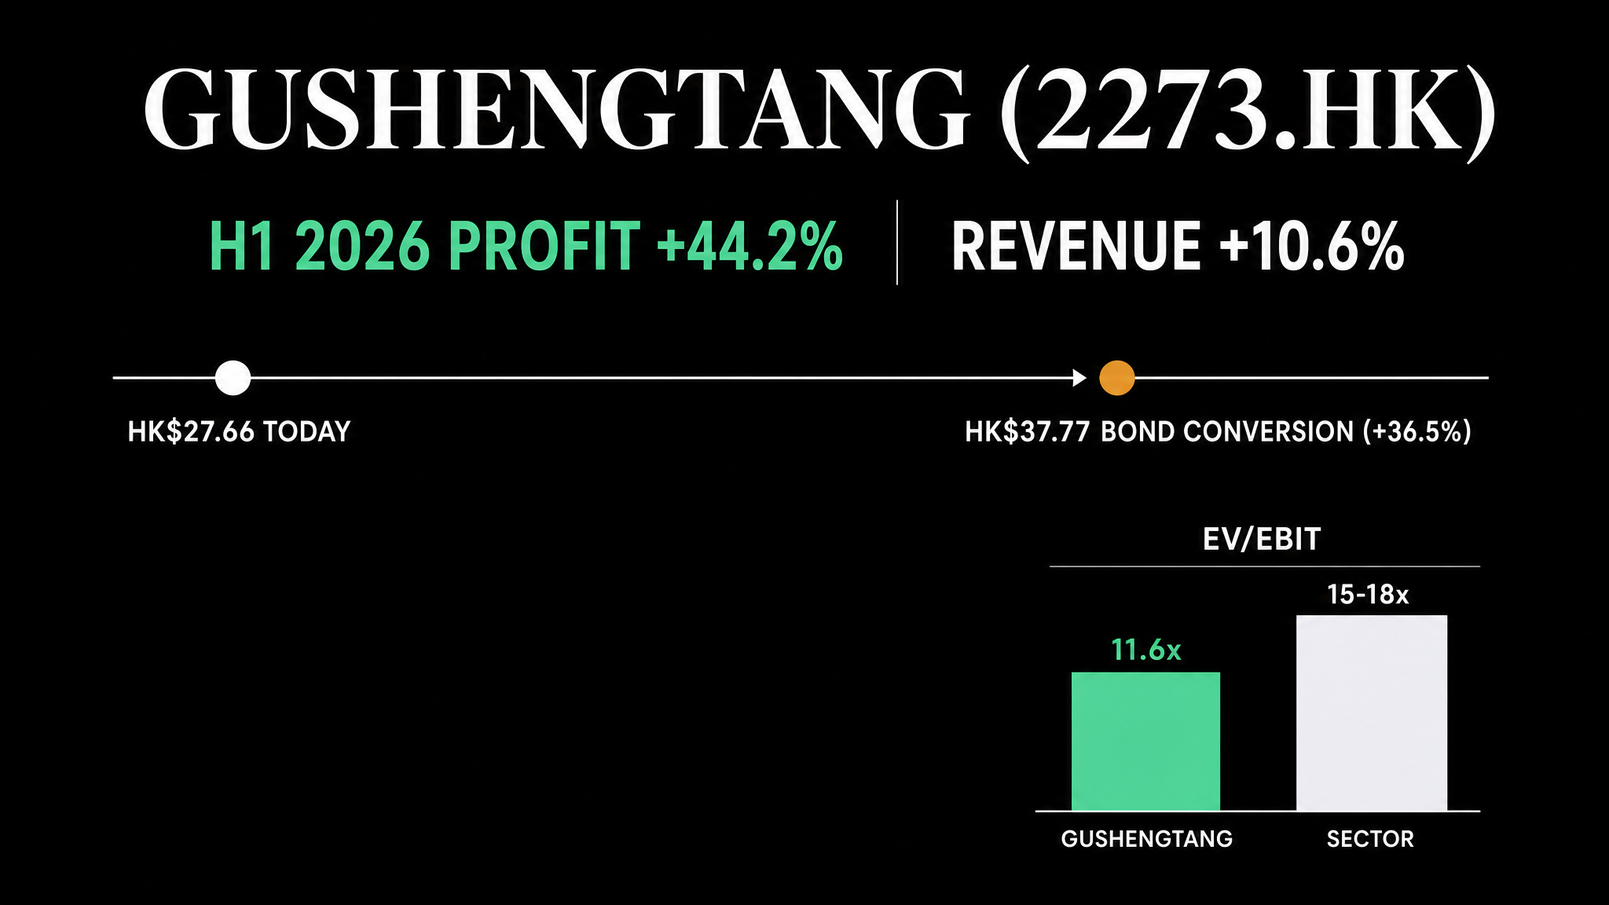
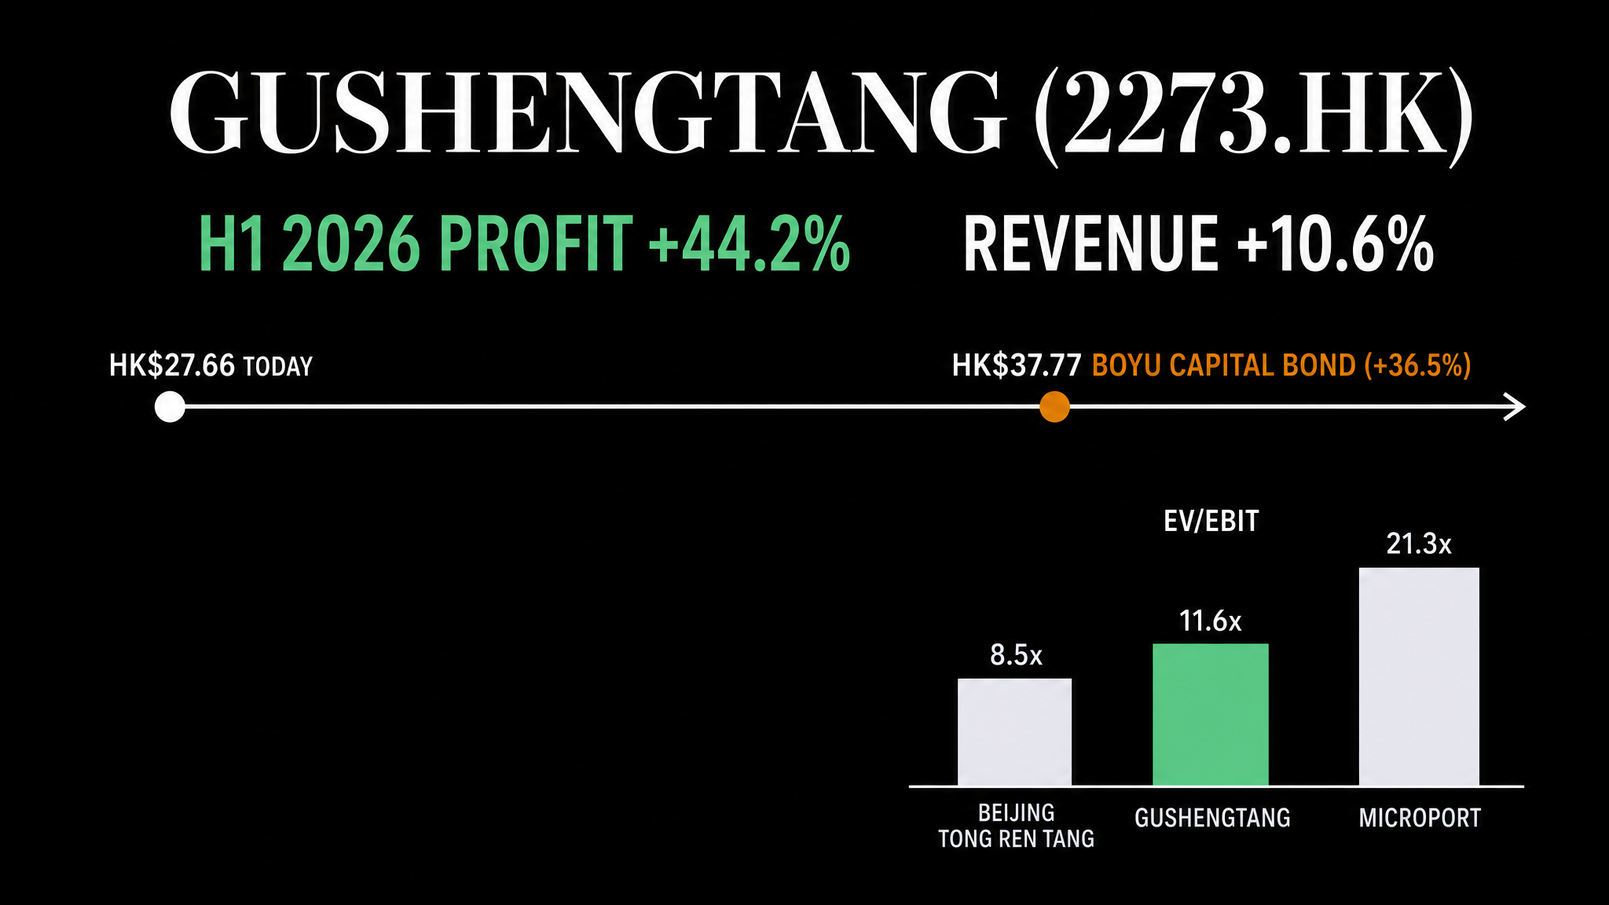
Fix sourcing gaps and unbacked chart claims on GUSHENGTANG article
- Named + linked the Boyu Capital convertible bond announcement
  (direct HKEXnews PDF, not just a name-drop)
- Fixed Sources section: stockId=2273 was wrong (HKEXnews stockId is
  a separate ID space, resolved stockId is 1000127399), added direct
  links to the AR, interim results, and CB filings
- Removed all "broke above the trend line" / breakout / support-level
  narrative — the article shows no chart, so those technical claims
  were unverifiable to the reader
- Replaced the unsourced "15-18x healthcare band" claim (flagged by
  the expert review as doing unearned work) with the three actually-
  named peer multiples already in the data table
- Regenerated the infographic to match: real peer bars (Beijing Tong
  Ren Tang 8.5x, MicroPort 21.3x) instead of a vague sector band
- Rebuilt the Decision section and scenario table around sourced
  price anchors (Boyu's HK$37.77, analyst consensus HK$39.87)
  instead of unshown chart support/resistance levels

diff --git a/publish/analyses/2273-gushengtang.html b/publish/analyses/2273-gushengtang.html
@@ -1,24 +1,24 @@
 <!-- CONFIG
 {
   "layout": "article",
-  "title": "GUSHENGTANG (2273.HK): Profit Rose 44%, Stock Lags",
-  "ogTitle": "GUSHENGTANG (2273.HK): Profit Rose 44%. A Bond Deal Already Prices the Stock 37% Higher.",
-  "description": "Gushengtang (2273.HK) profit grew 44% in H1 2026, but a convertible bond prices the stock 37% higher. Full analysis, price levels, and risks.",
+  "title": "GUSHENGTANG (2273.HK) · Boyu Capital's HK$37.77 Bet",
+  "ogTitle": "GUSHENGTANG (2273.HK): Boyu Capital Priced This Stock at HK$37.77. It Trades for Less.",
+  "description": "China's largest TCM clinic network. Boyu Capital priced its bond at HK$37.77 a share, above today's price. Analysis, price levels, risks.",
   "canonical": "https://trading852.com/analyses/2273-gushengtang",
   "ogType": "article",
   "ogImage": "https://trading852.com/assets/og-image.png",
   "pubDate": "2026-09-24",
   "modDate": "2026-09-24",
   "articleSection": "Healthcare",
-  "contextLine": "A bond prices it 36.5% above today's close"
+  "contextLine": "Boyu Capital priced a bond at HK$37.77"
 }
 -->
 <!-- JSONLD
   {
     "@context": "https://schema.org",
     "@type": "Article",
-    "headline": "GUSHENGTANG (2273.HK): Profit Rose 44%. A Bond Deal Already Prices the Stock 37% Higher.",
-    "description": "Gushengtang (2273.HK) profit grew 44% in H1 2026, but a convertible bond prices the stock 37% higher. Full analysis, price levels, and risks.",
+    "headline": "GUSHENGTANG (2273.HK): Boyu Capital Priced This Stock at HK$37.77. It Trades for Less.",
+    "description": "China's largest TCM clinic network. Boyu Capital priced its bond at HK$37.77 a share, above today's price. Analysis, price levels, risks.",
     "datePublished": "2026-09-24T00:00:00Z",
     "dateModified": "2026-09-24T00:00:00Z",
     "image": "https://trading852.com/assets/og-image.png",
@@ -57,10 +57,10 @@
         <span class="meta-text">8 min read</span>
       </div>
 
-      <h1>GUSHENGTANG (2273.HK) &middot; Profit Rose 44%. A Bond Deal Already Prices the Stock 37% Higher.</h1>
+      <h1>GUSHENGTANG (2273.HK) &middot; Boyu Capital Priced This Stock at HK$37.77. It Trades for Less.</h1>
 
       <p class="article-subtitle">
-        China's largest private network of traditional Chinese medicine clinics just posted its strongest profit growth in two years. The stock has spent ten weeks failing to hold a breakout it made in July.
+        China's largest private network of traditional Chinese medicine clinics just posted its strongest profit growth in two years. A private equity investor already paid more for exposure to the stock than today's price says it is worth.
       </p>
 
       <div class="article-tags">
@@ -79,18 +79,18 @@
 
       <div class="key-takeaway">
         <div class="key-takeaway__label">Key Takeaway</div>
-        <p>Gushengtang's first-half 2026 net profit grew 44.2% year on year to RMB&nbsp;219.2&nbsp;million. Revenue rose 10.6% to RMB&nbsp;1,652.9&nbsp;million, a sharp reacceleration from the 7.5% revenue growth the company posted for all of FY2025. At HK$27.66, the stock trades at 12.8 times earnings and 11.6 times operating profit. In January 2026, private equity firm Boyu Capital priced a US$110&nbsp;million convertible bond in the company at a conversion price of HK$37.77, 36.5% above today's price. The chart has not caught up to either number yet.</p>
+        <p>Gushengtang's first-half 2026 net profit grew 44.2% year on year to RMB&nbsp;219.2&nbsp;million. Revenue rose 10.6% to RMB&nbsp;1,652.9&nbsp;million, a sharp reacceleration from the 7.5% revenue growth the company posted for all of FY2025. At HK$27.66, the stock trades at 12.8 times earnings and 11.6 times operating profit. In January 2026, private equity firm Boyu Capital priced a US$110&nbsp;million convertible bond in the company at a conversion price of HK$37.77, 36.5% above today's price. The stock has not caught up to either number yet.</p>
       </div>
 
       <figure class="article-chart">
         <a href="images/2273-gushengtang-infographic.png" target="_blank" rel="noopener" title="Open full size">
-          <img src="images/2273-gushengtang-infographic.png" alt="Gushengtang (2273.HK) infographic: H1 2026 profit up 44.2%, revenue up 10.6%. Price levels from HK$27.66 today to the HK$37.77 Boyu Capital bond conversion price, +36.5%. EV/EBIT 11.6x versus a 15-18x healthcare sector band." width="2048" height="1152" loading="lazy" decoding="async" />
+          <img src="images/2273-gushengtang-infographic.png" alt="Gushengtang (2273.HK) infographic: H1 2026 profit up 44.2%, revenue up 10.6%. Price levels from HK$27.66 today to the HK$37.77 Boyu Capital bond conversion price, +36.5%. EV/EBIT 11.6x against named peers Beijing Tong Ren Tang 8.5x and MicroPort NeuroScientific 21.3x." width="2048" height="1152" loading="lazy" decoding="async" />
         </a>
-        <figcaption>H1 2026 growth, the bond's conversion price, and the valuation gap, in one view. Source: company filings, see Sources below.</figcaption>
+        <figcaption>H1 2026 growth, the bond's conversion price, and where it trades against named peers. Source: company filings, see Sources below.</figcaption>
       </figure>
 
-      <p>On July 15, 2026, Gushengtang's stock broke above the trend line it had been fighting for months, near HK$29.52. It has closed back below that same line on 50 of the next 51 trading days. Today it sits at HK$27.66, a few cents above its nearest support.</p>
-      <p>In the same ten weeks, the company reported first-half profit up 44.2% and revenue up 10.6%, both accelerating from the year before. The chart says the market does not believe the growth will last. The accounts, filed August 28, say it already has.</p>
+      <p>Gushengtang trades at HK$27.66 today, more than a fifth below where Boyu Capital priced its convertible bond in January and below where most sell-side analysts expect it to go.</p>
+      <p>The company's first-half profit grew 44.2% and revenue 10.6%, both accelerating from the year before. The stock price says investors do not believe the growth will last. The accounts, filed August 28, say it already has.</p>
 
       <h2>What Gushengtang Does</h2>
       <p>Gushengtang runs 101 traditional Chinese medicine clinics across mainland China plus 15 in Singapore, more than any other private operator in the country. Patients pay out of pocket for consultations and herbal treatment from licensed physicians, a business that carries almost no factory or hospital-grade fixed cost. Physicians make up 61% of the 3,551-person workforce. In 2025 the company launched an AI tool trained to replicate the diagnostic style of its senior doctors. It is a way of scaling a practice that has traditionally depended on one physician's reputation at a time.</p>
@@ -119,30 +119,29 @@
             <tbody>
               <tr><td>Beijing Tong Ren Tang (TCM, manufacturing)</td><td>8.5&times;</td></tr>
               <tr><td>WuXi AppTec (CRO)</td><td>9.4&times;</td></tr>
-              <tr><td>Healthcare general band (undervalued ceiling)</td><td>~15-18&times;</td></tr>
+              <tr class="row--highlight"><td>Gushengtang (2273.HK)</td><td>11.6&times;</td></tr>
               <tr><td>MicroPort NeuroScientific</td><td>21.3&times;</td></tr>
-              <tr class="row--highlight"><td>Gushengtang (2273.HK)</td><td>11.6&times;<span class="snapshot-badge">-30%</span></td></tr>
             </tbody>
           </table>
-          <p class="snapshot-note">Source: company FY2025 annual results and H1 2026 interim &middot; peer multiples Sept 2026. No pure TCM-clinic peer trades on HKEX; nearest comps are a TCM manufacturer and medical-device/CRO names.</p>
+          <p class="snapshot-note">Source: company FY2025 annual results and H1 2026 interim &middot; peer multiples Sept 2026. No pure TCM-clinic peer trades on HKEX; nearest comps are a TCM manufacturer and medical-device/CRO names, not a matched peer group.</p>
         </div>
       </div>
 
-      <h2>Why the Chart Has Not Confirmed the Growth</h2>
-      <p>FY2025 is the reason. Revenue grew 43.0% in 2023 and 30.1% in 2024, then fell to 7.5% in 2025. A clinic operator that had compounded at 30%-plus for two straight years slowed to single digits, and the stock re-rated down well before the July breakout attempt. This market has not handed back a full-size position on one quarter of reacceleration, even a 44% one.</p>
-      <p>What the July breakout failed to do is what an August 28 filing then did: it separated the H1 2026 numbers from the FY2025 slowdown. Offline clinic revenue, the core of the business, grew 12.5% year on year, and same-store sales, existing clinics rather than new ones, accounted for 97.3% of that growth. Existing clinics, not new openings, drove the growth.</p>
+      <h2>Why the Market Hasn't Re-Rated the Stock</h2>
+      <p>FY2025 is the reason. Revenue grew 43.0% in 2023 and 30.1% in 2024, then fell to 7.5% in 2025. A clinic operator that had compounded at 30%-plus for two straight years slowed to single digits, and the stock re-rated down. This market has not handed back a full-size position on one quarter of reacceleration, even a 44% one.</p>
+      <p>An August 28 filing separated the H1 2026 numbers from the FY2025 slowdown. Offline clinic revenue, the core of the business, grew 12.5% year on year, and same-store sales, existing clinics rather than new ones, accounted for 97.3% of that growth. Existing clinics, not new openings, drove the growth.</p>
 
       <h2>What Just Happened: Three Signals</h2>
-      <p>Three things converged between January and August 2026 that the July breakout attempt did not yet have behind it.</p>
+      <p>Three things converged between January and August 2026.</p>
       <ol>
-        <li><span class="num">01</span><span><strong>A private-equity investor priced the stock 36.5% higher, in writing.</strong> On January 26, 2026, Gushengtang signed a US$110&nbsp;million, five-year convertible bond with an investment vehicle of Boyu Capital, a private equity firm. The conversion price is HK$37.77, at a 2% coupon. That price was a 22% premium to the stock when the deal was signed. Against today's HK$27.66 it is a 36.5% premium. Boyu does not profit unless the stock gets there.</span></li>
+        <li><span class="num">01</span><span><strong>A private-equity investor priced the stock 36.5% higher, in writing.</strong> On <a href="https://www1.hkexnews.hk/listedco/listconews/sehk/2026/0126/2026012601612.pdf" target="_blank" rel="noopener noreferrer">January 26, 2026</a>, Gushengtang signed a US$110&nbsp;million, five-year convertible bond with an investment vehicle of Boyu Capital, a private equity firm. The conversion price is HK$37.77, at a 2% coupon. That price was a 22% premium to the stock when the deal was signed. Against today's HK$27.66 it is a 36.5% premium. Boyu does not profit unless the stock gets there.</span></li>
         <li><span class="num">02</span><span><strong>The company is buying back stock faster than it is paying dividends.</strong> In the first half of 2026 alone, Gushengtang ran 51 separate buybacks totaling HK$360&nbsp;million for 13.2&nbsp;million shares. Its board approved a further HK$300&nbsp;million on top of an existing mandate. Combined with the declared interim and final dividends, the payout for the half already totals roughly RMB&nbsp;658&nbsp;million. That is more than the entire RMB&nbsp;494&nbsp;million of free cash flow the company generated in all of 2025. The bond's proceeds are covering the gap, a choice management is making with new capital, not a sign the underlying cash generation has weakened.</span></li>
         <li><span class="num">03</span><span><strong>The company went shopping, four times, including its first deal outside China and Singapore.</strong> Between March and August 2026, Gushengtang announced four separate acquisitions. One was a majority stake in a Jinan clinic operator. Another covered two Singapore and Tianjin targets in a single June filing. A third added two Beijing-area hospitals in July. The fourth, in August, was three Malaysian TCM clinics, its first move into a country where it has never operated. That pace is new: the company's own annual report, published in April, said no material acquisition was planned.</span></li>
       </ol>
 
       <h2>Valuation</h2>
-      <p>At HK$27.66, Gushengtang trades at 12.8 times trailing earnings. It trades at 11.6 times operating profit, a measure known as EV/EBIT: what the market pays for the underlying business after stripping out cash and debt. No other pure TCM clinic operator trades on the Hong Kong exchange, so there is no clean like-for-like comparison. The nearest public reference, Beijing Tong Ren Tang's Chinese medicine arm, trades at 8.5 times. It is a slower-growing manufacturer, though, not a clinic network expanding same-store sales at double digits. The generic healthcare band that HKEX investors use for a profitable, capital-light operator runs 15 to 18 times. Gushengtang sits roughly 30% below the middle of that range.</p>
-      <p>Seventeen analysts covering the stock carry an average price target of HK$39.87, according to public consensus data as of September 2026, with estimates ranging from HK$25.07 to HK$59.61. That average sits within 1.5% of what the earnings multiple alone implies if the stock re-rated to the low end of the healthcare band. Two separate ways of arriving at a number land close together. Neither is the chart's number yet.</p>
+      <p>At HK$27.66, Gushengtang trades at 12.8 times trailing earnings. It trades at 11.6 times operating profit, a measure known as EV/EBIT: what the market pays for the underlying business after stripping out cash and debt. No other pure TCM clinic operator trades on the Hong Kong exchange, so there is no clean like-for-like comparison. Beijing Tong Ren Tang's Chinese medicine arm, the nearest public reference, trades at 8.5 times, but it is a slower-growing manufacturer, not a clinic network expanding same-store sales at double digits. WuXi AppTec, a contract research organization, trades at 9.4 times. MicroPort NeuroScientific, a medical-device maker, trades at 21.3 times. None of the three is a clean peer, and the spread between them, roughly 8.5 to 21 times for HKEX healthcare names with different growth and margin profiles, is wide enough that 11.6 times reads as reasonable rather than obviously cheap or expensive on multiple alone.</p>
+      <p>Seventeen analysts covering the stock carry an average price target of HK$39.87, according to public consensus data as of September 2026, with estimates ranging from HK$25.07 to HK$59.61. That average sits close to Boyu Capital's HK$37.77 conversion price, independently arrived at by an analyst consensus and a private-equity bond investor. Neither is today's HK$27.66.</p>
 
       <h2>Two Risks That Would Break This</h2>
 
@@ -153,7 +152,7 @@
 
       <div class="risk-callout">
         <h3 class="risk-callout__label">Risk 2: the H1 2026 reacceleration has to hold through a second half</h3>
-        <p><strong>One strong half does not undo one weak year.</strong> FY2025's 7.5% growth followed two years above 30%. The market's caution is a reasonable response to that pattern, not an overreaction to nothing. Two things would weaken the re-rating case. H2 2026 growth relapsing toward last year's pace is one. The other is the FY2026 annual report showing the reacceleration was a soft comparison against a weak H1 2025, not a durable trend. The stock's own support currently sits at HK$27.04, close to today's price, with a deeper floor near HK$21.66 if that level fails to hold.</p>
+        <p><strong>One strong half does not undo one weak year.</strong> FY2025's 7.5% growth followed two years above 30%. The market's caution is a reasonable response to that pattern, not an overreaction to nothing. Two things would weaken the re-rating case. H2 2026 growth relapsing toward last year's pace is one. The other is the FY2026 annual report showing the reacceleration was a soft comparison against a weak H1 2025, not a durable trend.</p>
       </div>
 
       <p>One operational point sits alongside both. Nearly all of Gushengtang's revenue is denominated in yuan against a Hong Kong dollar listing, with no disclosed currency hedge. The company's first-ever foreign acquisition, in Malaysia, also enters a licensing and regulatory regime it has no track record in. Neither is new to a China-based HKEX listing, but the Malaysia deal is a genuinely untested variable, not a repeat of what the company has already done in Singapore.</p>
@@ -162,22 +161,22 @@
 
       <h2>The Decision</h2>
       <p><em>Written at HK$27.66 on September 24, 2026.</em></p>
-      <p>The fundamentals and the chart are telling two different stories right now, and both are reading real data. Revenue and profit reaccelerated in the first half. A private investor priced a multi-year bond well above today's stock, and the buyback program is large relative to the company's size. Against that, a full year of slowing growth is recent enough that the market has not yet handed back the multiple it took away. The chart has spent ten weeks failing to hold the level where that would start to show.</p>
-      <p>This analysis does not produce a buy signal or a sell signal. What it produces is a specific level, HK$29.52, where the market would be agreeing with the accounts instead of arguing with them.</p>
+      <p>The fundamentals and the market price are telling two different stories right now, and both are reading real data. Revenue and profit reaccelerated in the first half. Boyu Capital priced a multi-year bond well above today's stock, and the buyback program is large relative to the company's size. Against that, a full year of slowing growth is recent enough that the market has not yet handed back the multiple it took away.</p>
+      <p>This analysis does not produce a buy signal or a sell signal. What it produces is a price, HK$37.77, where the market would be agreeing with Boyu Capital instead of pricing the stock well below what its own bond investor paid.</p>
 
       <div class="price-targets" aria-label="Price levels">
         <div class="price-targets__item">
-          <div class="price-targets__label">Downside: support fails</div>
-          <div class="price-targets__value">HK$21.66</div>
-          <div class="price-targets__note">Deeper floor if HK$27.04 support breaks</div>
+          <div class="price-targets__label">Today</div>
+          <div class="price-targets__value">HK$27.66</div>
+          <div class="price-targets__note">September 24, 2026</div>
         </div>
         <div class="price-targets__item">
-          <div class="price-targets__label">Base: multiple re-rates to sector floor</div>
-          <div class="price-targets__value">HK$36-38</div>
-          <div class="price-targets__note">Healthcare band low end, near Boyu's HK$37.77 bond price</div>
+          <div class="price-targets__label">Boyu Capital's bond conversion price</div>
+          <div class="price-targets__value">HK$37.77</div>
+          <div class="price-targets__note">Set January 26, 2026, +36.5% above today</div>
         </div>
         <div class="price-targets__item">
-          <div class="price-targets__label">Reference: analyst consensus mean</div>
+          <div class="price-targets__label">Analyst consensus mean</div>
           <div class="price-targets__value">HK$39.87</div>
           <div class="price-targets__note">17-analyst average, Sept 2026</div>
         </div>
@@ -186,25 +185,25 @@
       <div class="data-table-wrap">
         <table class="data-table">
           <thead>
-            <tr><th>Scenario</th><th>Observable Signal</th><th>Price Implication</th></tr>
+            <tr><th>Scenario</th><th>Trigger</th><th>What It Would Mean</th></tr>
           </thead>
           <tbody>
-            <tr><td class="col--scenario">Bull</td><td class="col--signal">Weekly close above HK$29.52 combined with FY2026 results confirming the H1 growth rate held through H2</td><td class="col--impact">Re-rating toward the HK$36-38 zone, where the bond's conversion price sits</td></tr>
-            <tr><td class="col--scenario">Neutral</td><td class="col--signal">Price stays between HK$27.04 and HK$29.52; H2 growth data not yet reported</td><td class="col--impact">HK$27-30, thesis intact pending the FY2026 annual report</td></tr>
-            <tr><td class="col--scenario">Bear</td><td class="col--signal">Close below HK$27.04 followed by a close below HK$21.66, or FY2026 results showing growth relapsing toward FY2025's 7.5% pace, or net cash turning materially negative without an earnings offset</td><td class="col--impact">HK$21-25, thesis invalidated</td></tr>
+            <tr><td class="col--scenario">Bull</td><td class="col--signal">FY2026 annual report confirms the H1 growth rate held through H2</td><td class="col--impact">Re-rating case strengthens, toward Boyu's HK$37.77 and the HK$39.87 consensus</td></tr>
+            <tr><td class="col--scenario">Neutral</td><td class="col--signal">H2 2026 growth data not yet reported</td><td class="col--impact">Thesis intact pending the FY2026 annual report</td></tr>
+            <tr><td class="col--scenario">Bear</td><td class="col--signal">FY2026 results show growth relapsing toward FY2025's 7.5% pace, or net cash turns materially negative without an earnings offset</td><td class="col--impact">Re-rating case weakens; thesis invalidated</td></tr>
           </tbody>
         </table>
       </div>
 
-      <p>Three signals would invalidate the case. A close under HK$21.66, following a failed HK$27.04 support. An FY2026 print showing the reacceleration did not survive a second half. Or a net cash position turning meaningfully negative without a matching rise in earnings. None has happened yet. The bond investor is still waiting on the same number the chart is.</p>
+      <p>Two signals would invalidate the case. An FY2026 print showing the reacceleration did not survive a second half. Or a net cash position turning meaningfully negative without a matching rise in earnings. Neither has happened yet. Boyu Capital is still waiting on the same number the market is.</p>
 
       <div class="sources-section">
         <h2>Sources</h2>
         <ul>
-          <li><a href="https://www1.hkexnews.hk/search/titlesearch.xhtml?lang=E&amp;category=0&amp;market=MAINBOARD&amp;searchType=0&amp;documentType=-1&amp;stockId=2273" target="_blank" rel="noopener noreferrer">Gushengtang Holdings: HKEXnews filings, 2026</a></li>
-          <li>Gushengtang FY2025 Annual Report, filed April 29, 2026</li>
-          <li>Gushengtang Interim Results Announcement for the six months ended June 30, 2026, filed August 28, 2026</li>
-          <li>US$110 million convertible bond agreement with an investment vehicle of Boyu Capital: HKEXnews announcement, January 26, 2026</li>
+          <li><a href="https://www1.hkexnews.hk/search/titlesearch.xhtml?lang=E&amp;category=0&amp;market=MAINBOARD&amp;searchType=0&amp;documentType=-1&amp;stockId=1000127399" target="_blank" rel="noopener noreferrer">Gushengtang Holdings: HKEXnews filings, 2026</a></li>
+          <li><a href="https://www1.hkexnews.hk/listedco/listconews/sehk/2026/0429/2026042903571.pdf" target="_blank" rel="noopener noreferrer">Gushengtang FY2025 Annual Report</a>, filed April 29, 2026</li>
+          <li><a href="https://www1.hkexnews.hk/listedco/listconews/sehk/2026/0828/2026082800305.pdf" target="_blank" rel="noopener noreferrer">Interim Results Announcement for the six months ended June 30, 2026</a>, filed August 28, 2026</li>
+          <li><a href="https://www1.hkexnews.hk/listedco/listconews/sehk/2026/0126/2026012601612.pdf" target="_blank" rel="noopener noreferrer">Proposed Issue of Convertible Bonds Under General Mandate</a>, US$110 million agreement with an investment vehicle of Boyu Capital, HKEXnews announcement, January 26, 2026</li>
           <li>Analyst consensus price targets: public analyst estimate aggregation, September 2026</li>
           <li>Peer EV/EBIT multiples: company filings and public market data, September 2026</li>
         </ul>
